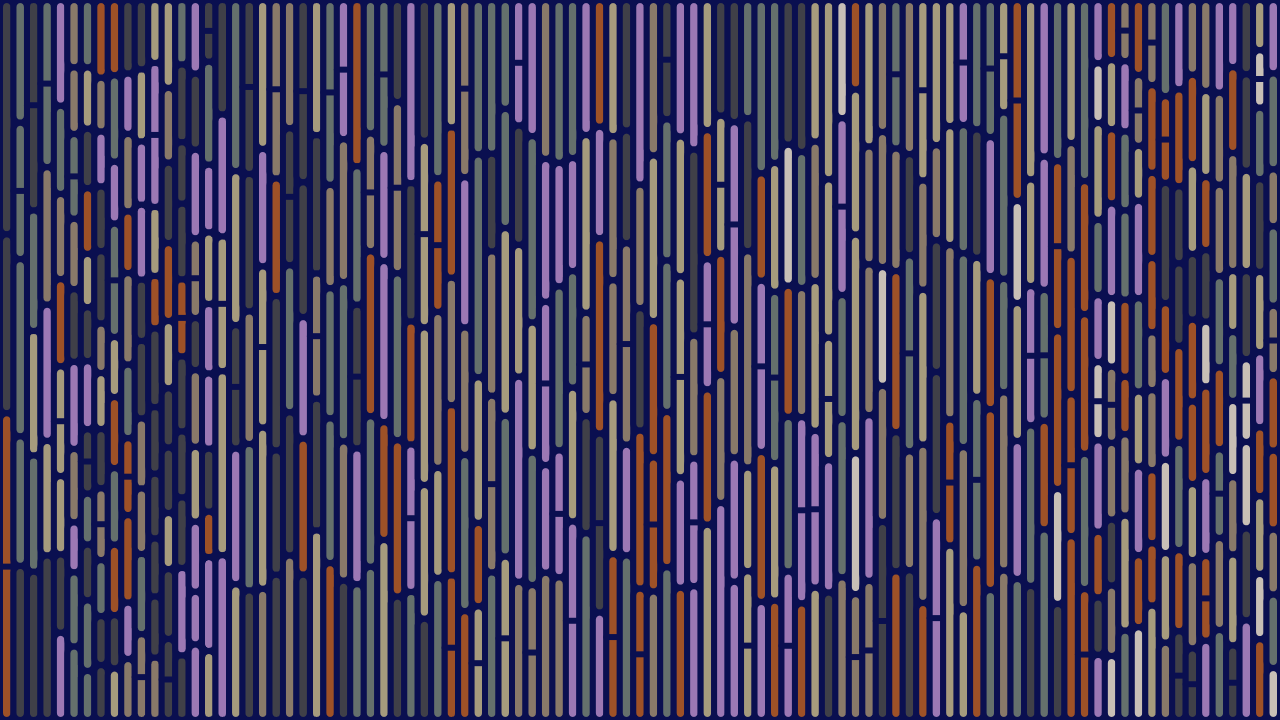
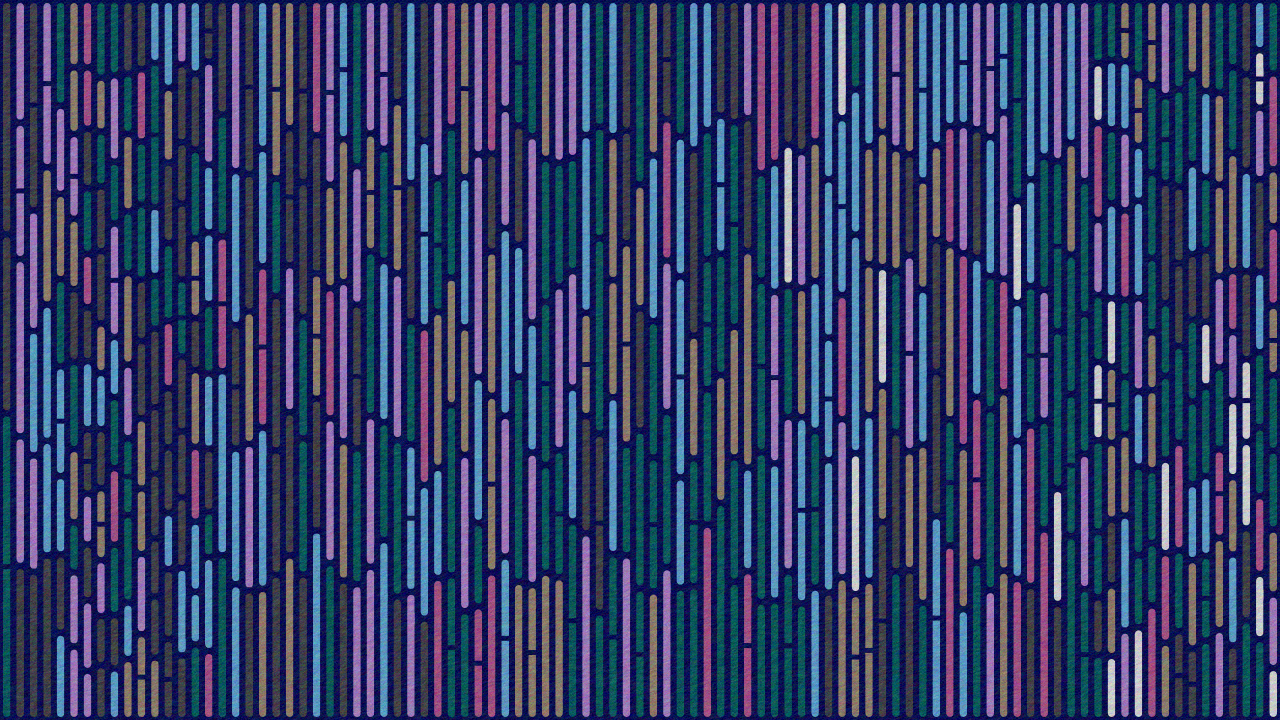
final_image_update

diff --git a/dither.js b/dither.js
@@ -7,7 +7,7 @@ let matrix = [
 ];
 
 function preload() {
-  img = loadImage('new_colors_image.png');
+  img = loadImage('final_image.png');
 }
 
 function setup() {
